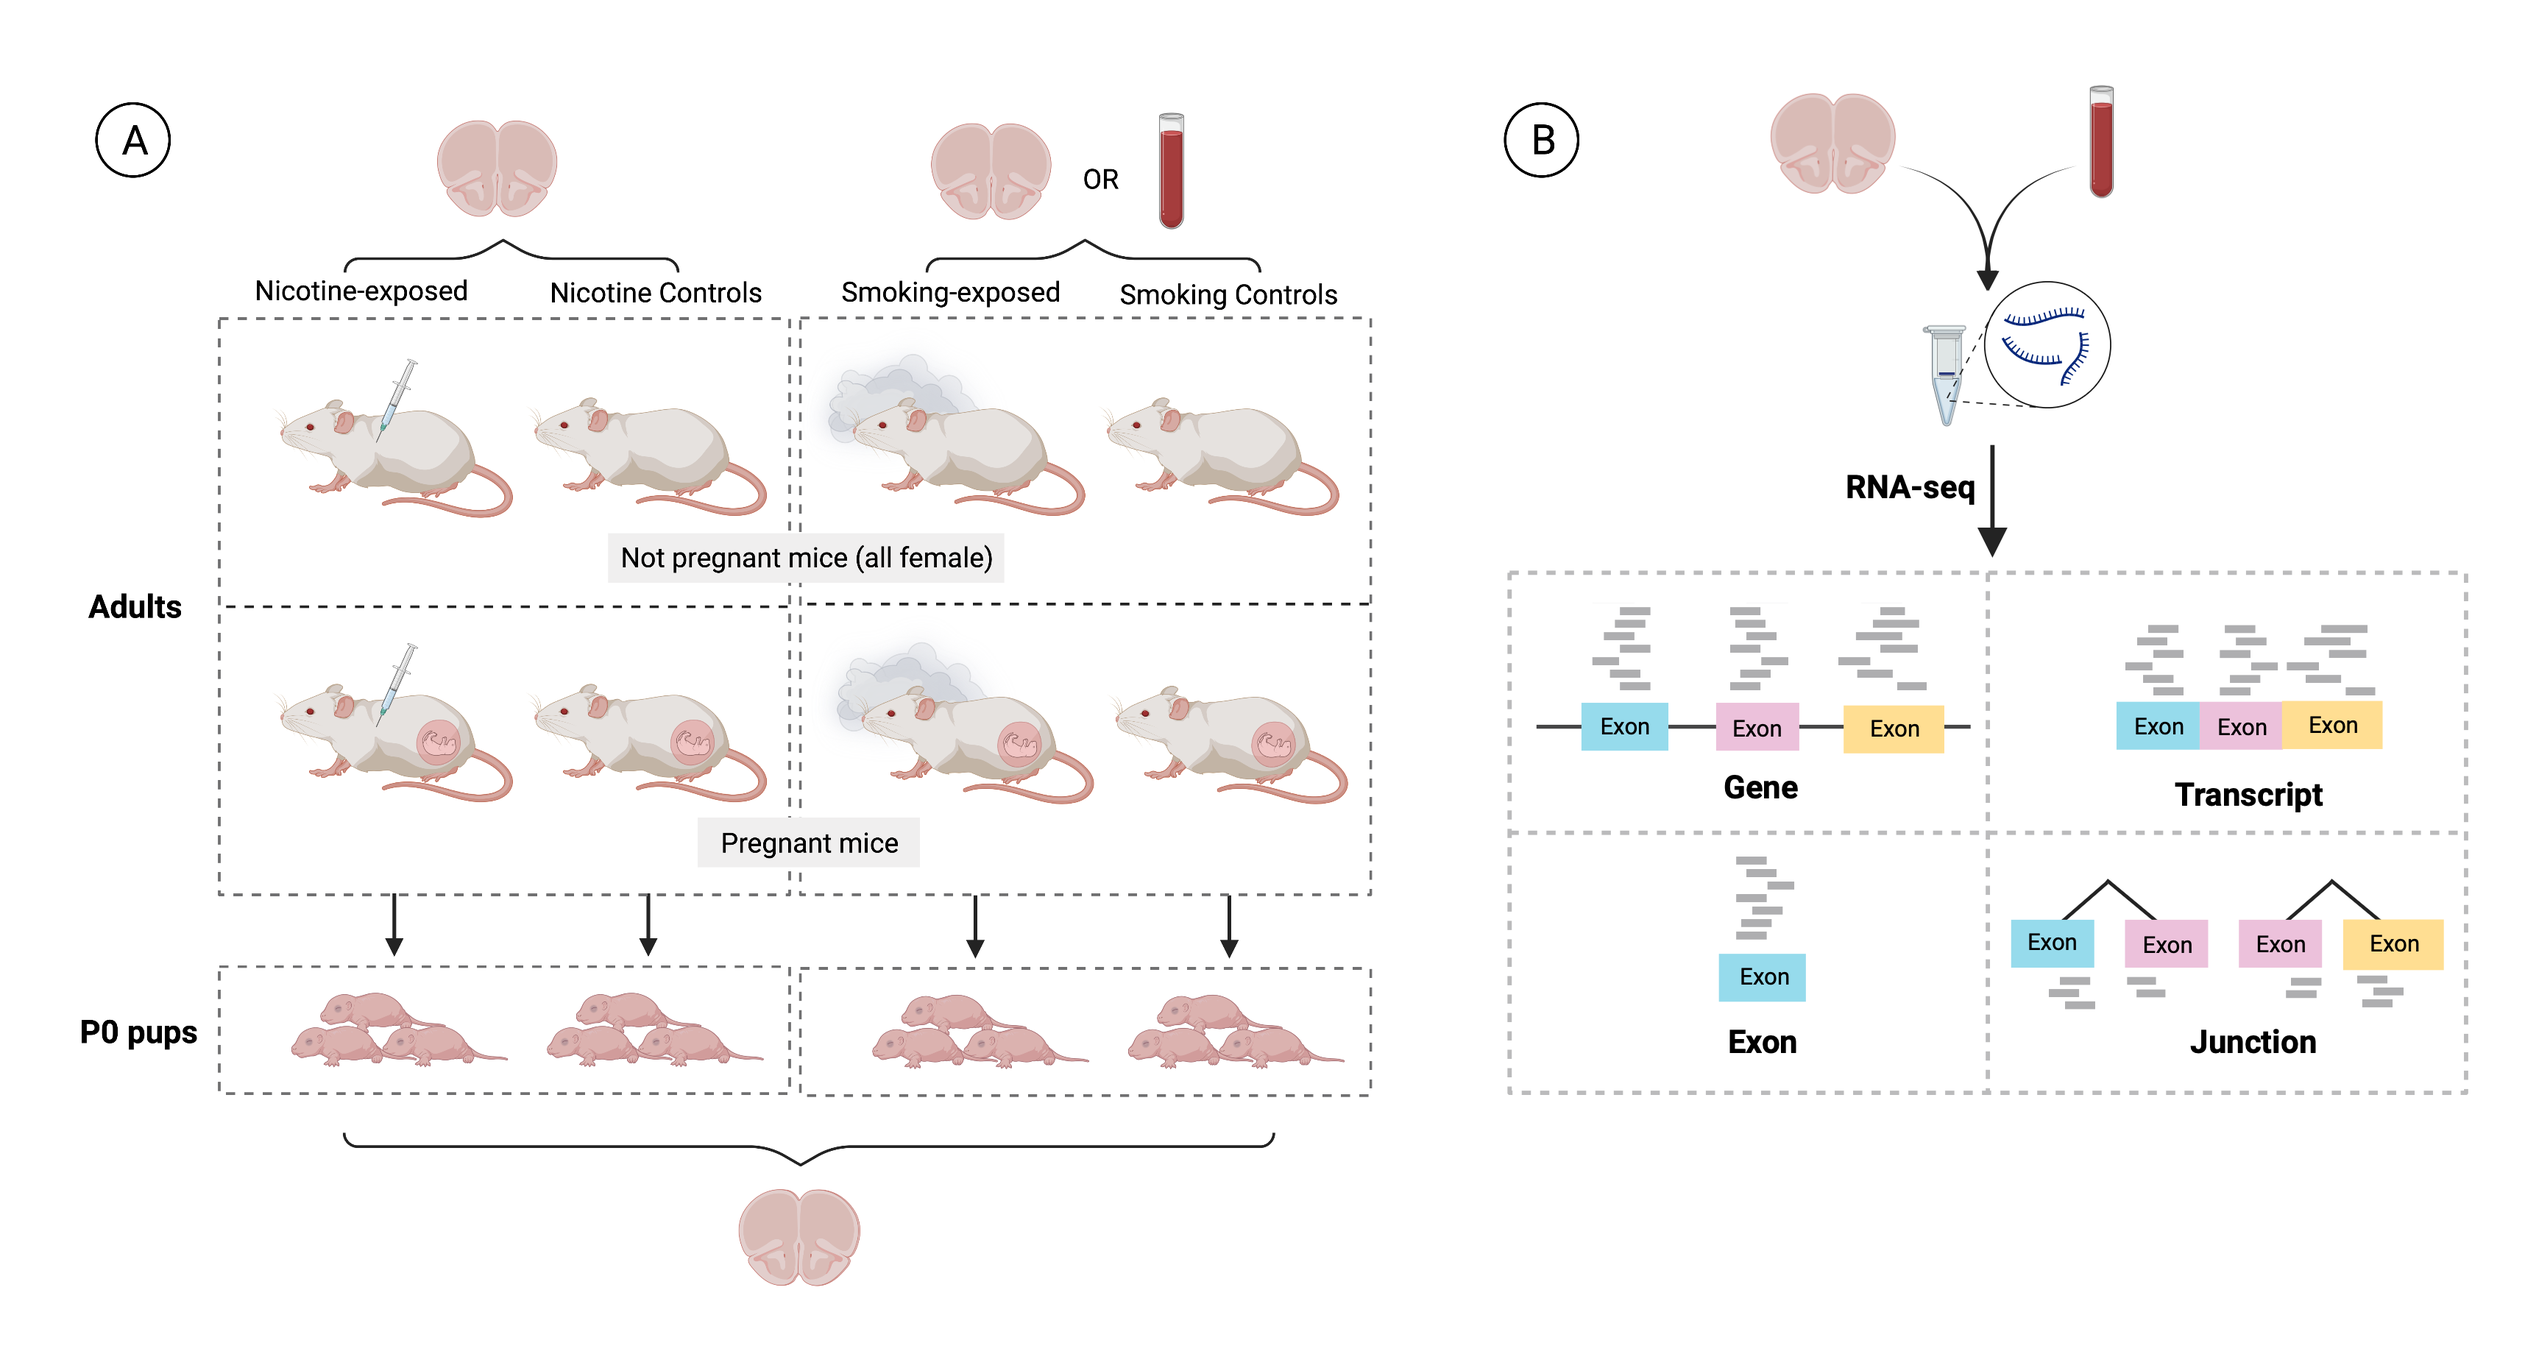
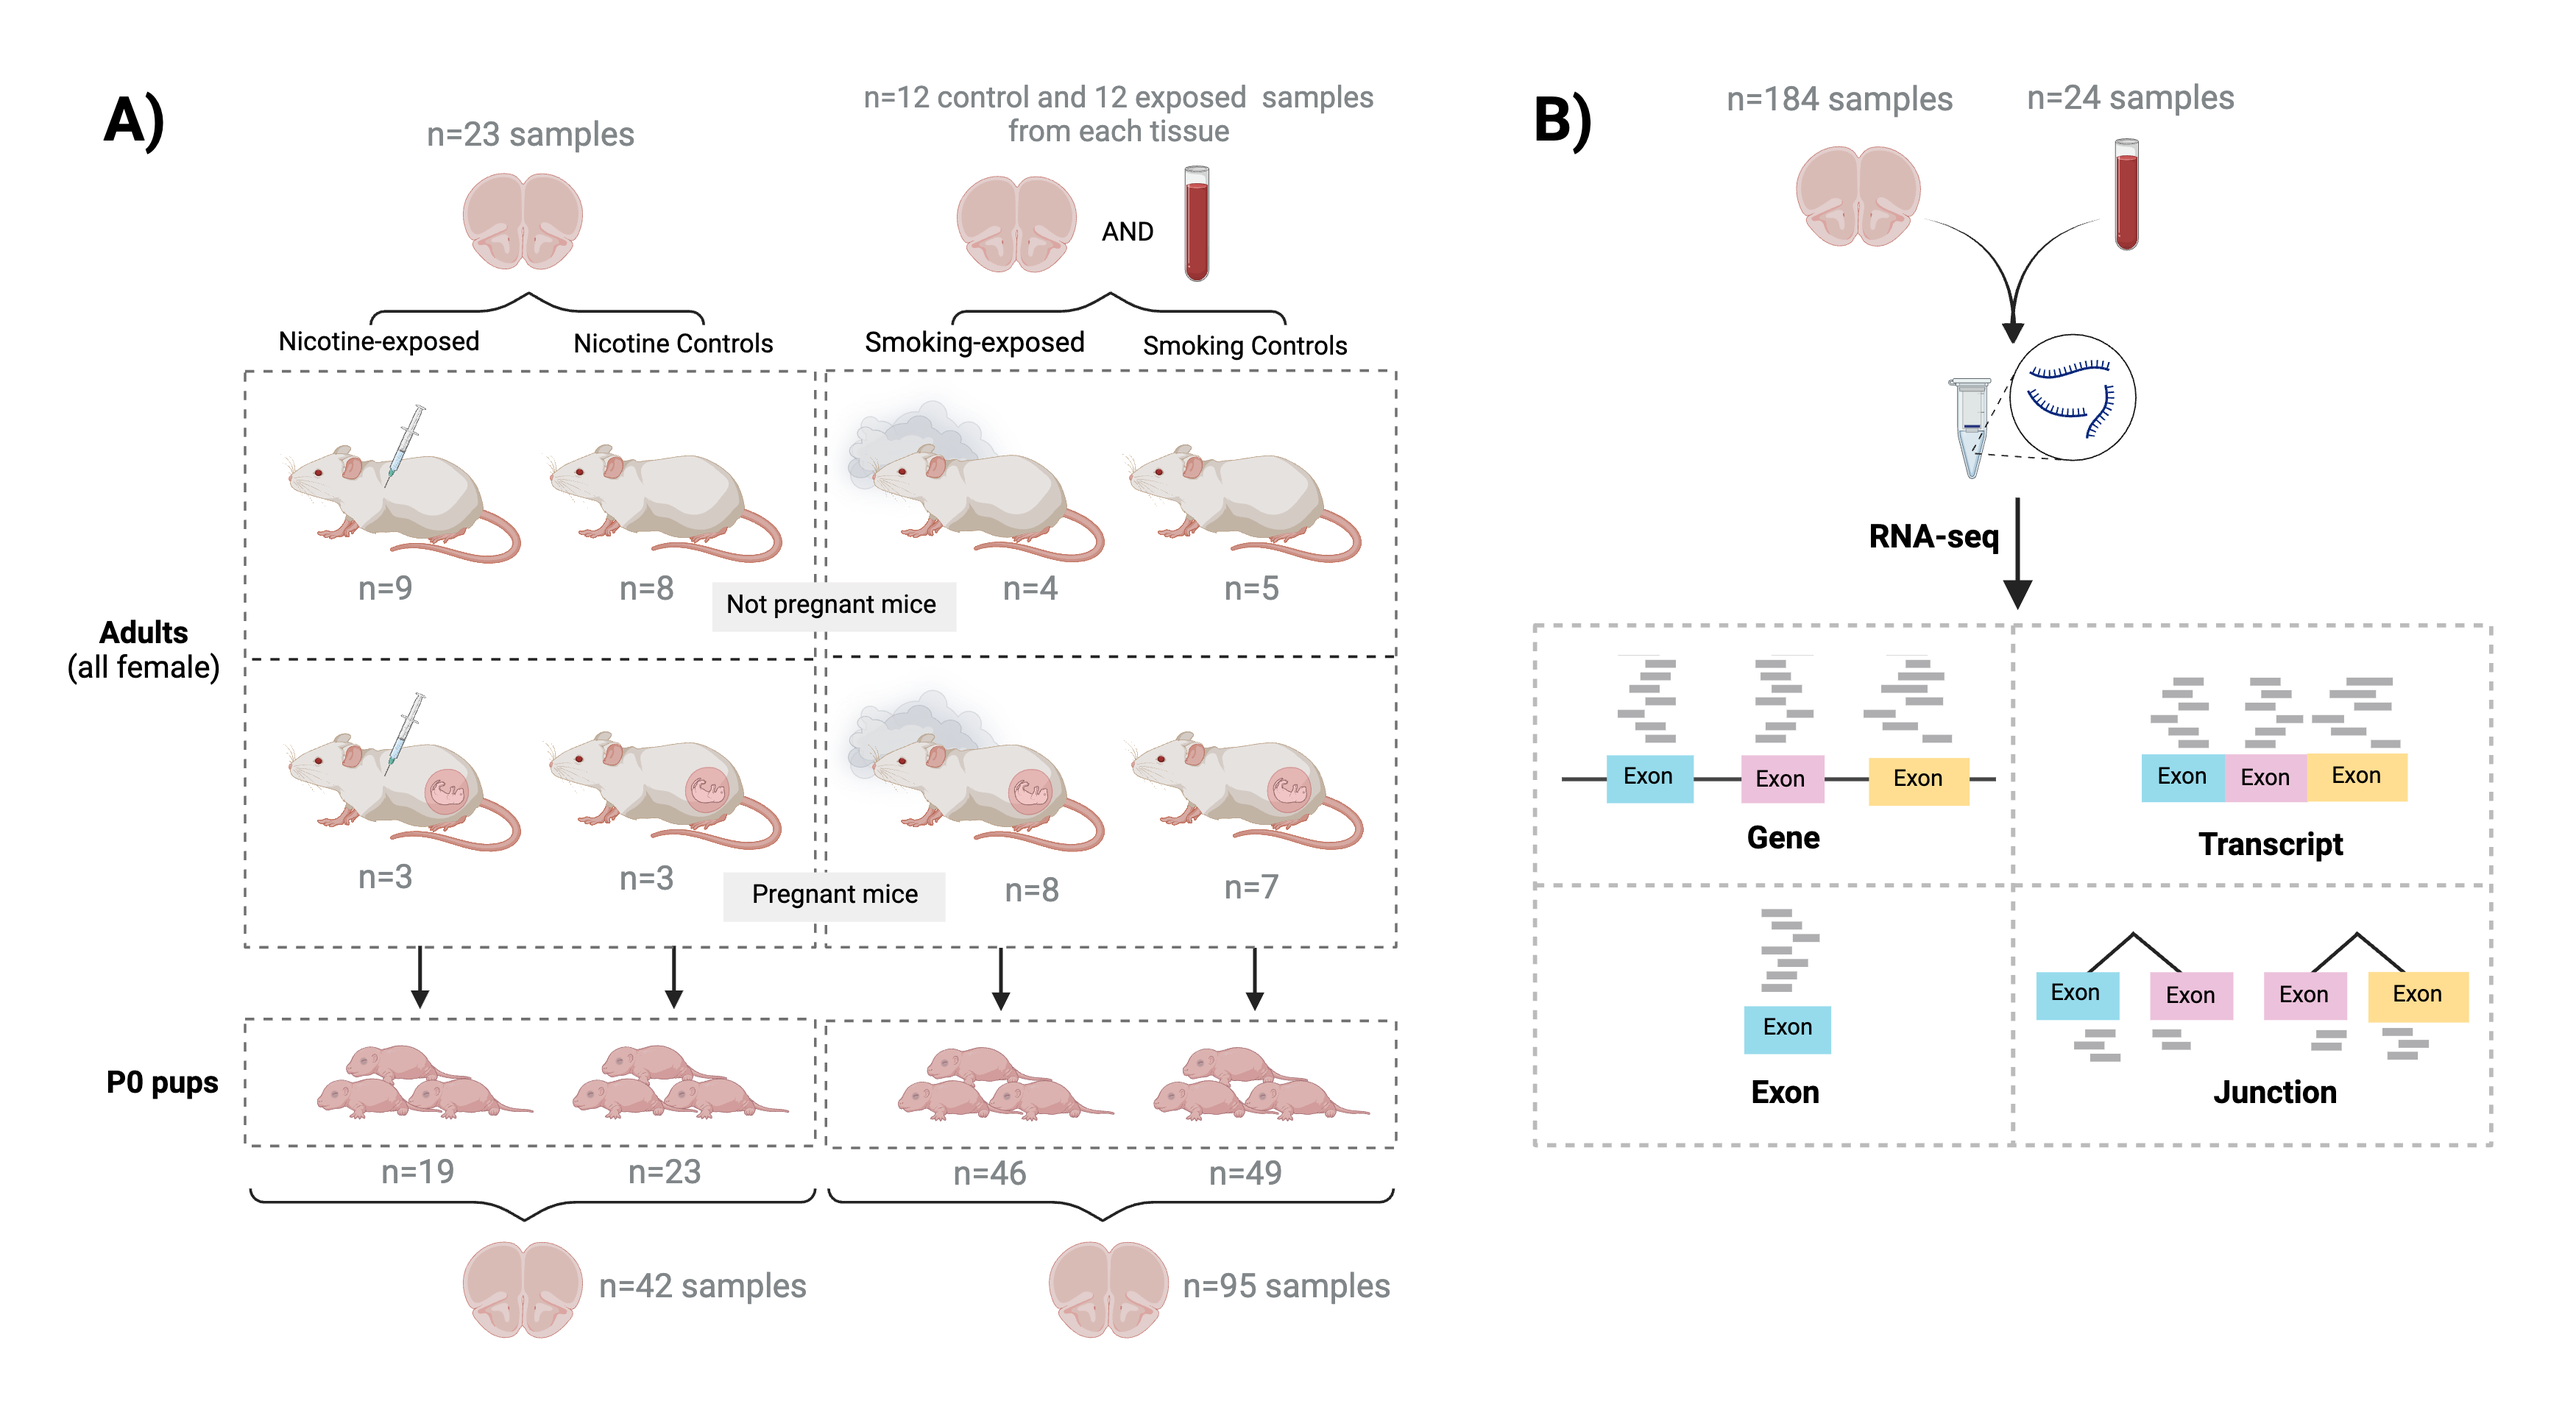
Update overview and figs

diff --git a/README.md b/README.md
@@ -27,23 +27,23 @@ dependencies](https://bioconductor.org/shields/dependencies/release/smokingMouse
 
 <!-- badges: end -->
 
-Welcome to the `smokingMouse` project! Here you are able to access the
-mouse and human datasets used for the analysis of the smoking mouse LIBD
-project.
+Welcome to the `smokingMouse` project! Here you’ll be able to access the
+mouse expression data used for the analysis of the
+smoking-nicotine-mouse LIBD project.
 
 ## Overview
 
 This bulk RNA-sequencing project consisted of a differential expression
 analysis (DEA) involving 4 data types: genes, exons, transcripts and
-junctions. The main goal of this study was to explore the effects of
-prenatal exposure to maternal smoking and nicotine exposures on the
-developing mouse brain. As secondary objectives, this work evaluated: 1)
-the affected genes by each exposure on the adult female brain in order
-to compare offspring and adult results and 2) the effects of smoking on
-adult blood and brain to search for overlapping biomarkers in both
-tissues. Finally, DEGs identified in mice were compared against
-previously published results from a human study (Semick, S.A. et
-al. (2018)).
+exon-exon junctions. The main goal of this study was to explore the
+effects of prenatal exposure to maternal smoking and nicotine exposures
+on the developing mouse brain. As secondary objectives, this work
+evaluated: 1) the affected genes by each exposure on the adult female
+brain in order to compare offspring and adult results and 2) the effects
+of smoking on adult blood and brain to search for overlapping biomarkers
+in both tissues. Finally, DEGs identified in mice were compared against
+previously published results in human (Semick, S.A. et al. (2018) and
+Toikumo, S. et al. (2023)).
 
 The next table summarizes the analyses done at each level.
 
@@ -51,18 +51,22 @@ The next table summarizes the analyses done at each level.
 <img src="man/figures/Table_of_Analyses.png" align="center" width="800px" />
 <figcaption style="color: gray; line-height: 0.94; text-align: justify">
 
-<font size="-1.5"><b>Table 1</b>: <b>1. Data preparation</b>: in this
-first step, counts of genes, exons and junctions were normalized to CPM
-and scaled; transcript expression values were only scaled since they
-were already in TMP. Then, low-expression features were removed using
-the indicated methods and samples were separated by tissue and age in
-order to create subsets of the data for downstream analyses. <b>2.
-Exploratory Data Analysis</b>: QC metrics of the samples were examined
-and used to filter them; sample level effects were explored through
-dimensionality reduction methods and rare samples in PCA plots were
-manually removed from the datasets; gene level effects were evaluated
-with analyses of explanatory variables and variance partition. <b>3.
-Differential Expression Analysis</b>: with the relevant variables
+<font size="-1.5"><b> Summary of analysis steps across gene expression
+feature levels </b>:
+
+<b>1. Data preparation</b>: in this first step, counts of genes, exons
+and junctions were normalized to CPM and scaled; transcript expression
+values were only scaled since they were already in TMP. Then,
+low-expression features were removed using the indicated methods and
+samples were separated by tissue and age in order to create subsets of
+the data for downstream analyses.
+
+<b>2. Exploratory Data Analysis</b>: QC metrics of the samples were
+examined and used to filter them; sample level effects were explored
+through dimensionality reduction methods and rare samples in PCA plots
+were manually removed from the datasets; gene level effects were
+evaluated with analyses of explanatory variables and variance partition.
+<b>3. Differential Expression Analysis</b>: with the relevant variables
 identified in the previous steps, the DEA was performed at the gene
 level for nicotine and smoking, adult and pup, and blood and brain
 samples, and for 3 models: the naive one modeled
@@ -223,6 +227,7 @@ human data.
 library(ExperimentHub)
 #> Warning: package 'ExperimentHub' was built under R version 4.3.1
 #> Loading required package: BiocGenerics
+#> Warning: package 'BiocGenerics' was built under R version 4.3.1
 #> 
 #> Attaching package: 'BiocGenerics'
 #> The following objects are masked from 'package:stats':
@@ -241,9 +246,6 @@ library(ExperimentHub)
 #> Warning: package 'BiocFileCache' was built under R version 4.3.1
 #> Loading required package: dbplyr
 eh <- ExperimentHub::ExperimentHub()
-#> Cannot connect to ExperimentHub server, using 'localHub=TRUE' instead
-#> Using 'localHub=TRUE'
-#>   If offline, please also see BiocManager vignette section on offline use
 ```
 
 ``` r
@@ -256,13 +258,52 @@ myfiles <- query(eh, "smokingMouse")
 ########################
 ## Download the mouse gene data
 rse_gene <- myfiles[['EH8313']] 
+#> Warning: package 'GenomicRanges' was built under R version 4.3.1
+#> Warning: package 'S4Vectors' was built under R version 4.3.2
+#> Warning: package 'IRanges' was built under R version 4.3.1
+#> Warning: package 'GenomeInfoDb' was built under R version 4.3.1
 ## This is a RangedSummarizedExperiment object
 rse_gene
+#> class: RangedSummarizedExperiment 
+#> dim: 55401 208 
+#> metadata(1): Obtained_from
+#> assays(2): counts logcounts
+#> rownames(55401): ENSMUSG00000102693.1 ENSMUSG00000064842.1 ...
+#>   ENSMUSG00000064371.1 ENSMUSG00000064372.1
+#> rowData names(13): Length gencodeID ... DE_in_pup_brain_nicotine
+#>   DE_in_pup_brain_smoking
+#> colnames: NULL
+#> colData names(71): SAMPLE_ID FQCbasicStats ...
+#>   retained_after_QC_sample_filtering
+#>   retained_after_manual_sample_filtering
 
 ## Check sample info 
 colData(rse_gene)[1:5, 1:5]
+#> DataFrame with 5 rows and 5 columns
+#>     SAMPLE_ID FQCbasicStats perBaseQual perTileQual  perSeqQual
+#>   <character>   <character> <character> <character> <character>
+#> 1 Sample_2914          PASS        PASS        PASS        PASS
+#> 2 Sample_4042          PASS        PASS        PASS        PASS
+#> 3 Sample_4043          PASS        PASS        PASS        PASS
+#> 4 Sample_4044          PASS        PASS        PASS        PASS
+#> 5 Sample_4045          PASS        PASS        PASS        PASS
 ## Check gene info
 rowData(rse_gene)[1:5, 1:5]
+#> DataFrame with 5 rows and 5 columns
+#>                         Length            gencodeID          ensemblID
+#>                      <integer>          <character>        <character>
+#> ENSMUSG00000102693.1      1070 ENSMUSG00000102693.1 ENSMUSG00000102693
+#> ENSMUSG00000064842.1       110 ENSMUSG00000064842.1 ENSMUSG00000064842
+#> ENSMUSG00000051951.5      6094 ENSMUSG00000051951.5 ENSMUSG00000051951
+#> ENSMUSG00000102851.1       480 ENSMUSG00000102851.1 ENSMUSG00000102851
+#> ENSMUSG00000103377.1      2819 ENSMUSG00000103377.1 ENSMUSG00000103377
+#>                                 gene_type    EntrezID
+#>                               <character> <character>
+#> ENSMUSG00000102693.1                  TEC       71042
+#> ENSMUSG00000064842.1                snRNA          NA
+#> ENSMUSG00000051951.5       protein_coding      497097
+#> ENSMUSG00000102851.1 processed_pseudogene   100418032
+#> ENSMUSG00000103377.1                  TEC          NA
 ## Access the original counts
 original_counts <- assays(rse_gene)$counts
 ## Access the log normalized counts
@@ -276,6 +317,30 @@ logcounts <- assays(rse_gene)$logcounts
 de_genes_prenatal_human_brain_smoking <- myfiles[['EH8317']]
 ## This is a data frame
 de_genes_prenatal_human_brain_smoking[1:5, ]
+#> GRanges object with 5 ranges and 9 metadata columns:
+#>                   seqnames              ranges strand |    Length      Symbol
+#>                      <Rle>           <IRanges>  <Rle> | <integer> <character>
+#>   ENSG00000080709     chr5 113696642-113832337      + |      3995       KCNN2
+#>   ENSG00000070886     chr1   22890057-22930087      + |      5358       EPHA8
+#>   ENSG00000218336     chr4 183065140-183724177      + |     11983       TENM3
+#>   ENSG00000189108     chrX 103810996-105011822      + |      3146    IL1RAPL2
+#>   ENSG00000186732    chr22   43807202-43903728      + |      5821      MPPED1
+#>                    EntrezID     logFC   AveExpr         t     P.Value adj.P.Val
+#>                   <integer> <numeric> <numeric> <numeric>   <numeric> <numeric>
+#>   ENSG00000080709      3781 -0.694069   2.86444  -6.09779 2.59861e-06 0.0469491
+#>   ENSG00000070886      2046  1.545861   1.58351   5.67106 7.49034e-06 0.0477263
+#>   ENSG00000218336     55714  0.804367   6.31125   5.55661 9.97733e-06 0.0477263
+#>   ENSG00000189108     26280 -1.035988   1.62624  -5.53375 1.05665e-05 0.0477263
+#>   ENSG00000186732       758  0.384536   9.34706   5.41518 1.42396e-05 0.0514535
+#>                           B
+#>                   <numeric>
+#>   ENSG00000080709   4.44638
+#>   ENSG00000070886   3.18385
+#>   ENSG00000218336   3.53830
+#>   ENSG00000189108   2.83949
+#>   ENSG00000186732   3.19865
+#>   -------
+#>   seqinfo: 25 sequences from an unspecified genome; no seqlengths
 
 ## Access data of human genes as normally do with data frames
 ```
@@ -290,7 +355,7 @@ Please run this yourself to check for any updates on how to cite
 print(citation('smokingMouse'), bibtex = TRUE)
 #> To cite package 'smokingMouse' in publications use:
 #> 
-#>   Gonzalez-Padilla D, Collado-Torres L (2023). _Provides access to
+#>   Gonzalez-Padilla D, Collado-Torres L (2024). _Provides access to
 #>   smokingMouse project data _. doi:10.18129/B9.bioc.smokingMouse
 #>   <https://doi.org/10.18129/B9.bioc.smokingMouse>,
 #>   https://github.com/LieberInstitute/smokingMouse/smokingMouse - R
@@ -302,13 +367,13 @@ print(citation('smokingMouse'), bibtex = TRUE)
 #>   @Manual{,
 #>     title = {Provides access to smokingMouse project data },
 #>     author = {Daianna Gonzalez-Padilla and Leonardo Collado-Torres},
-#>     year = {2023},
+#>     year = {2024},
 #>     url = {http://www.bioconductor.org/packages/smokingMouse},
 #>     note = {https://github.com/LieberInstitute/smokingMouse/smokingMouse - R package version 0.99.5},
 #>     doi = {10.18129/B9.bioc.smokingMouse},
 #>   }
 #> 
-#>   Gonzalez-Padilla D, Collado-Torres L (2023). "Provides access to
+#>   Gonzalez-Padilla D, Collado-Torres L (2024). "Provides access to
 #>   smokingMouse project data." _bioRxiv_. doi:10.1101/TODO
 #>   <https://doi.org/10.1101/TODO>,
 #>   <https://www.biorxiv.org/content/10.1101/TODO>.
@@ -318,7 +383,7 @@ print(citation('smokingMouse'), bibtex = TRUE)
 #>   @Article{,
 #>     title = {Provides access to smokingMouse project data},
 #>     author = {Daianna Gonzalez-Padilla and Leonardo Collado-Torres},
-#>     year = {2023},
+#>     year = {2024},
 #>     journal = {bioRxiv},
 #>     doi = {10.1101/TODO},
 #>     url = {https://www.biorxiv.org/content/10.1101/TODO},
